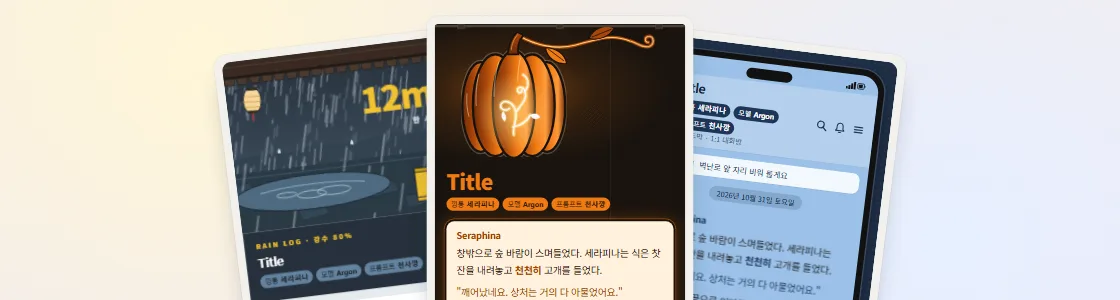
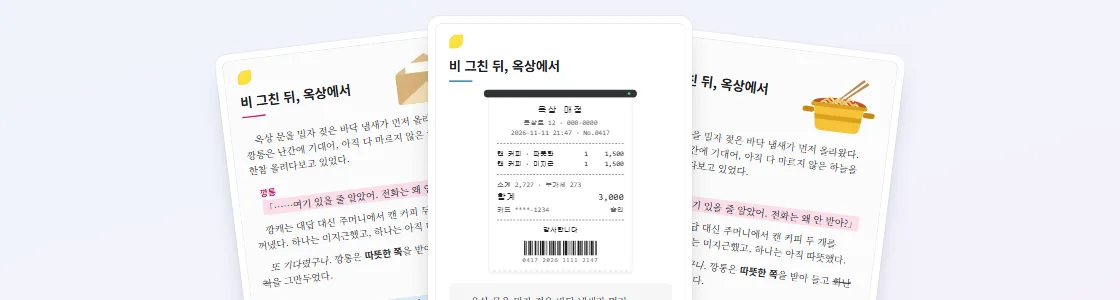
홈 글꾸 마트 표지를 지금 심플 틀 셋(편지 봉투 · 카페 영수증 · 라면) 실제 미리보기로 다시 구움 · 공유 그림을 1.4.6 채팅 화면으로 · home.css 꼬리 20261114c

diff --git a/index.html b/index.html
@@ -14,13 +14,13 @@
   <link rel="icon" href="lemon.svg?v=20261109a" type="image/svg+xml"><link rel="apple-touch-icon" href="lemon-touch.png?v=20261109a">
   <meta name="description" content="심플한 화면, 읽기 편한 글, 자유로운 색 조절. 필요한 기능을 골라 쓰는 SillyTavern 테마 Blue Lemonade.">
   <meta property="og:title" content="Blue Lemonade"><meta property="og:description" content="색상·글꼴·채팅 화면을 조절하는 실리태번 테마. 기능 시연과 설치 방법을 확인하세요.">
-  <meta property="og:image" content="https://kgangkgang.github.io/blue-lemonade/media/docs-20261019-og.jpg">
+  <meta property="og:image" content="https://kgangkgang.github.io/blue-lemonade/media/docs-20261114-og.jpg">
   <meta property="og:image:width" content="1200"><meta property="og:image:height" content="630"><meta property="og:type" content="website"><meta property="og:url" content="https://kgangkgang.github.io/blue-lemonade/"><meta property="og:locale" content="ko_KR"><meta name="twitter:card" content="summary_large_image">
   <link rel="preconnect" href="https://cdn.jsdelivr.net" crossorigin><link rel="stylesheet" href="https://cdn.jsdelivr.net/gh/orioncactus/pretendard@v1.3.9/dist/web/variable/pretendardvariable-dynamic-subset.min.css">
   <link rel="stylesheet" href="site.css?v=20261113s"><link rel="stylesheet" href="start-guide.css?v=20261019b"><script src="start-guide.js?v=20261019b" defer></script><link rel="stylesheet" href="palette-preview.css?v=484"><link rel="stylesheet" href="features.css?v=484"><script src="features.js?v=20261010e" defer></script><script src="playground-state.js?v=521" defer></script><script src="reading.js?v=20261109f" defer></script><script src="site.js?v=20261112i" defer></script><script src="palette-preview.js?v=20261109f" defer></script>
 <link rel="stylesheet" href="atmosphere.css?v=20261109g"><link rel="stylesheet" href="glance.css?v=20261113a"><script src="showcase.js?v=20261114a" defer></script>
 <link rel="stylesheet" href="calm.css?v=20261112i">
-<link rel="stylesheet" href="mart/home.css?v=20261114b"><link rel="stylesheet" href="mart/top-mart.css?v=20261113u"><script src="mart/top-mart.js?v=20261114a" defer></script>
+<link rel="stylesheet" href="mart/home.css?v=20261114c"><link rel="stylesheet" href="mart/top-mart.css?v=20261113u"><script src="mart/top-mart.js?v=20261114a" defer></script>
 <script type="module" src="preset-export.mjs?v=545"></script><link rel="stylesheet" href="bundled-tools.css?v=590"><script src="bundled-tools.js?v=20261112i" defer></script><link rel="stylesheet" href="home-guide.css?v=20261113s"><script src="home-guide.js?v=20261114a" defer></script><link rel="stylesheet" href="extension-guide.css?v=20261010c"><script src="extension-guide.js?v=20261103" defer></script><link rel="stylesheet" href="feature-examples.css?v=20261010e"><script src="feature-examples.js?v=20261103" defer></script><link rel="stylesheet" href="home-films.css?v=20261113c"><script src="home-films.js?v=20261113a" defer></script></head>
 <body class="home-guide">
 <a class="skip-link" href="#main">본문으로 건너뛰기</a>

diff --git a/mart/home.css b/mart/home.css
@@ -5,8 +5,8 @@
 .mart-cards a:hover{translate:0 -2px}
 .mart-cards .mart-art{position:relative;height:150px;border-radius:8px;overflow:hidden;background:var(--tint)}
 .mart-cards .mart-art.frames{background:url(data/frames/picnic-clay-portrait-t-10fc6aa8.webp) 36% 55%/auto 88% no-repeat,url(data/frames/rainbow-illustrated-portrait-t-70408717.webp) 64% 55%/auto 88% no-repeat,linear-gradient(165deg,#e3eefa,#f6e9f2)}
-/* 글꾸 마트 표지: 실제 글꾸 틀(비 · 호박 · 메신저 말풍선) 미리보기를 겹친 몽타주(cover-geulkku.webp · 1120×300 · 마트-모바일/gen-cover.mjs 로 만들어요) */
-.mart-cards .mart-art.geulkku{background:url(cover-geulkku.webp) 50% 0/cover no-repeat,linear-gradient(165deg,#f6efe2,#efe9f6)}
+/* 글꾸 마트 표지: 지금 마트의 심플 틀 셋(편지 봉투 · 카페 영수증 · 라면) 실제 미리보기를 겹친 몽타주(cover-geulkku.webp · 1120×300 · 11-14 허브 지시-1114/홈-영상/대본/gen-cover-geulkku.mjs 로 다시 구움) */
+.mart-cards .mart-art.geulkku{background:url(cover-geulkku.webp?v=20261114a) 50% 0/cover no-repeat,linear-gradient(165deg,#f6efe2,#efe9f6)}
 .mart-cards b{font-size:16px;font-weight:650;line-height:1.4}
 .mart-cards p{margin:0;color:var(--muted);font-size:13px;line-height:1.6}
 .mart-cards .mart-go{margin-top:auto;font-size:14px;font-weight:650;color:var(--blue-strong)}
